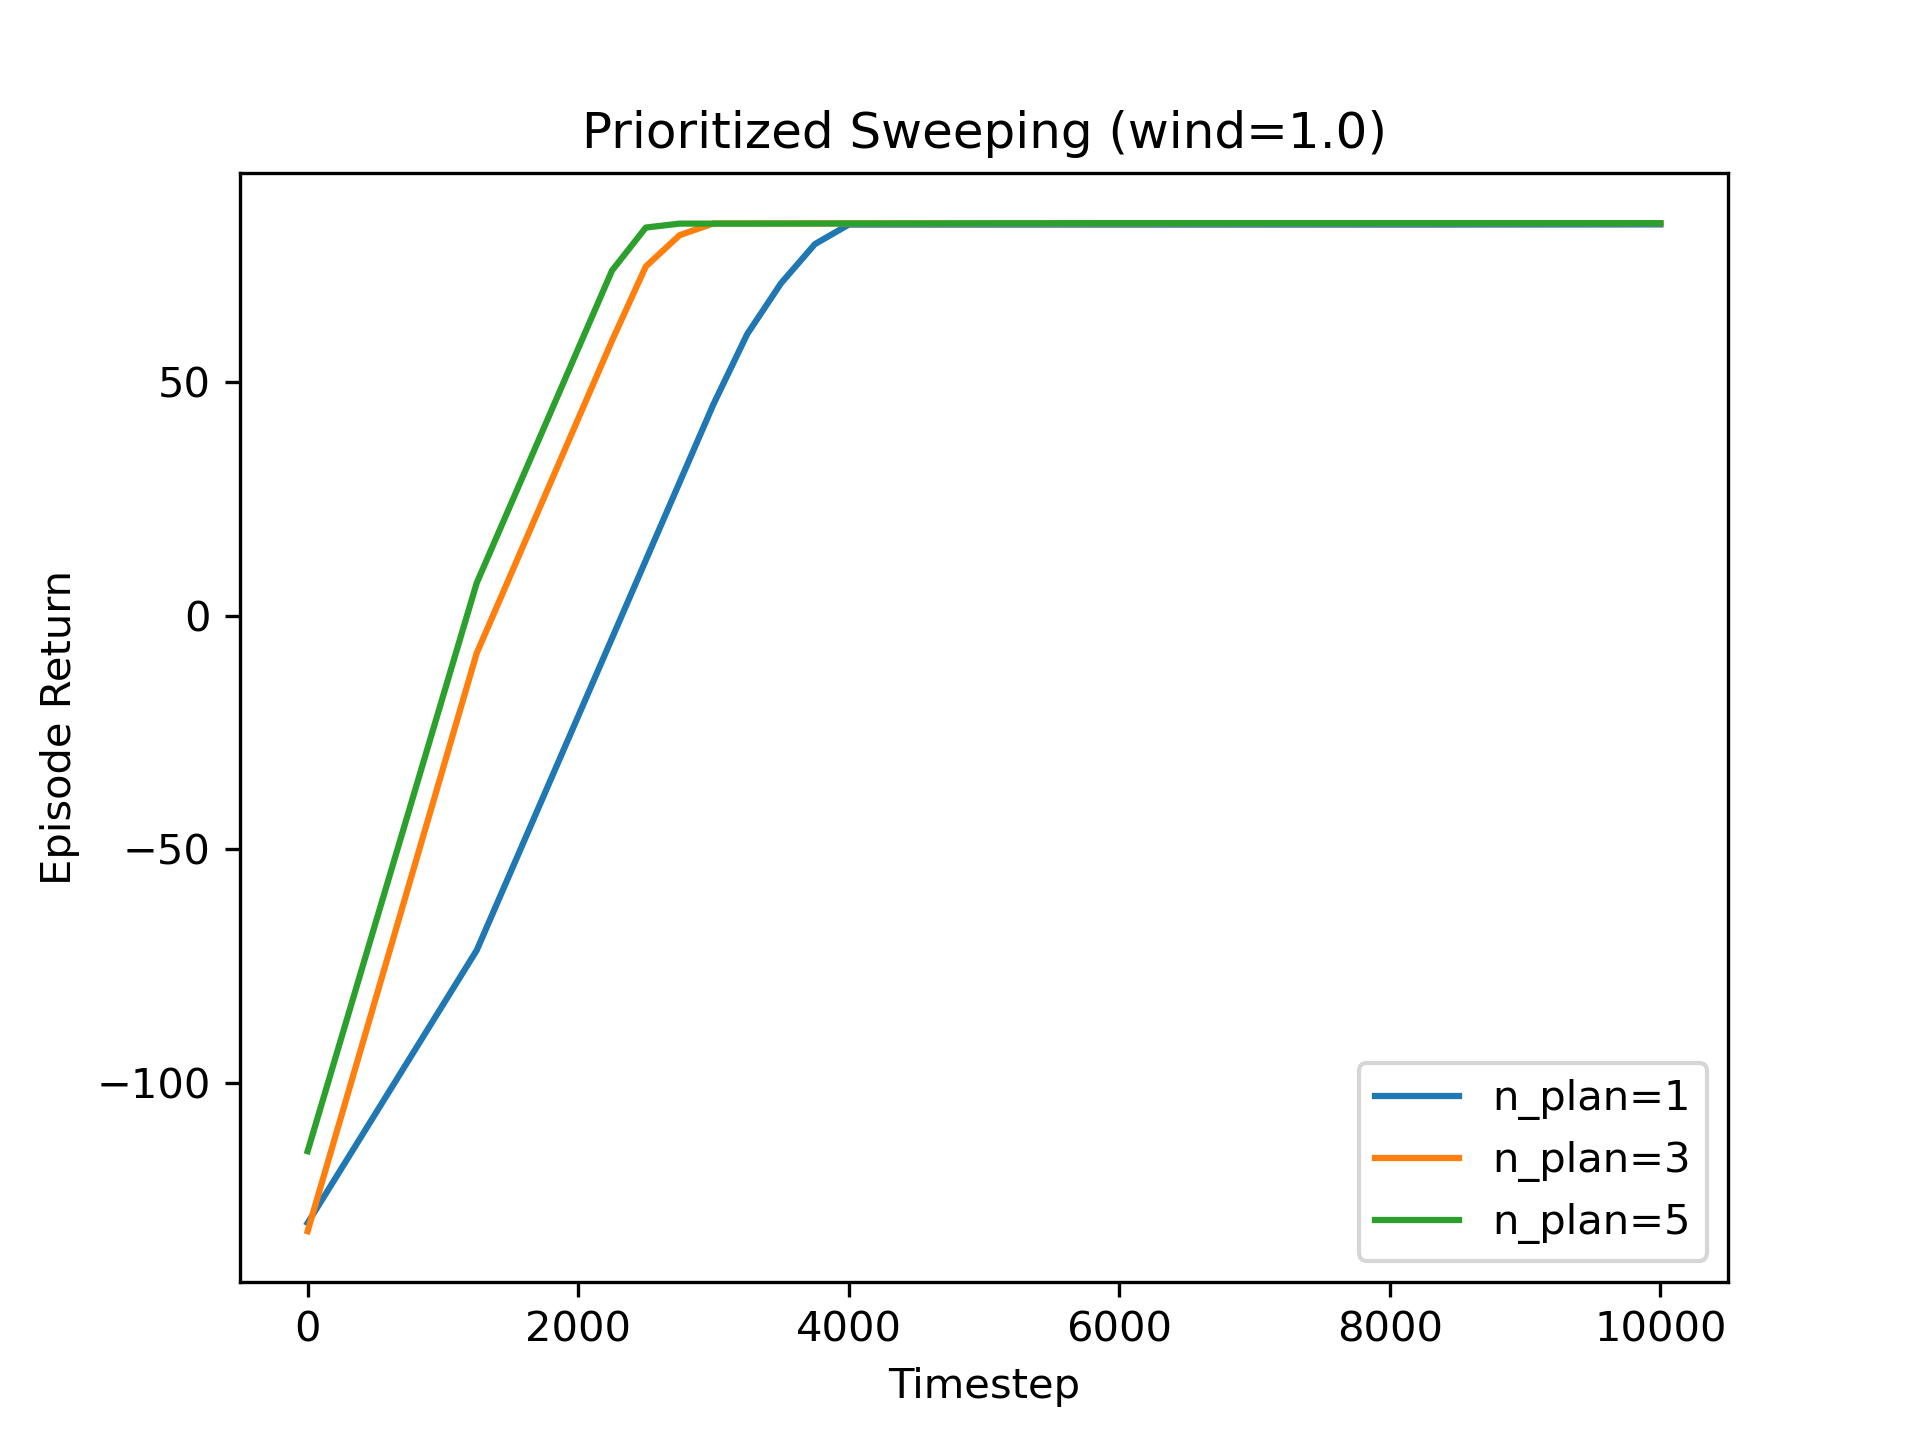
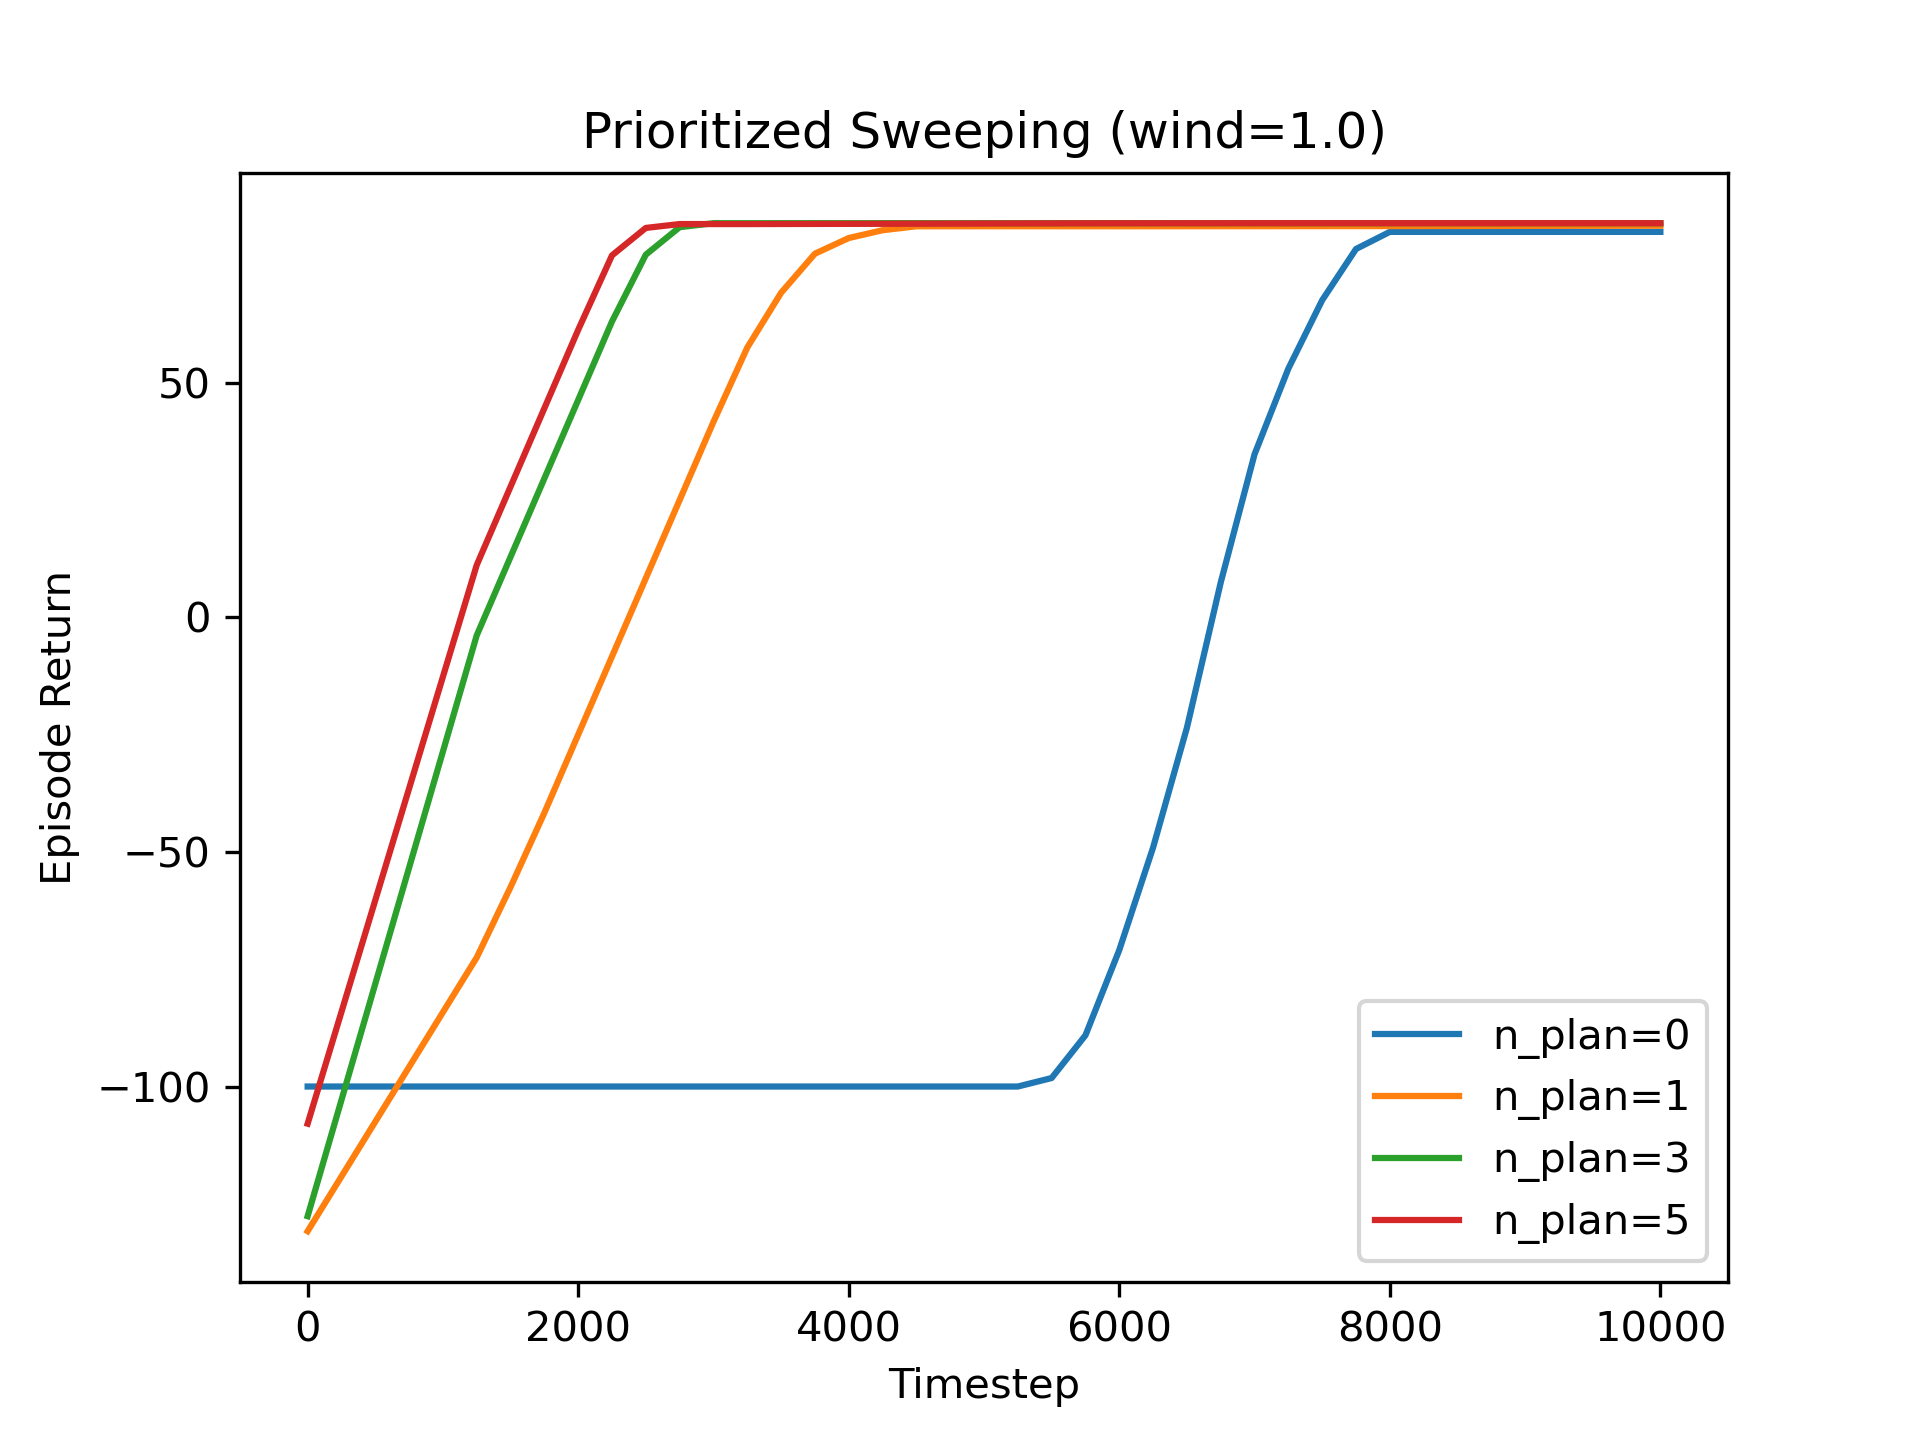
Added comments

diff --git a/IRL_A3/MBRLExperiment.py b/IRL_A3/MBRLExperiment.py
@@ -13,27 +13,30 @@ from MBRLAgents import DynaAgent, PrioritizedSweepingAgent
 from Helper import LearningCurvePlot, smooth
 
 def experiment():
-    n_timesteps = 10001
-    eval_interval = 250
-    n_repetitions = 20
-    gamma = 1.0
-    learning_rate = 0.2
-    epsilon=0.1
-    
-    wind_proportions=[0.9,1.0]
-    n_planning_updatess = [1,3,5] 
-    
-    # IMPLEMENT YOUR EXPERIMENT HERE
+    n_timesteps = 10001 #total number of environment steps to run the experiment for in each repetition
+    eval_interval = 250 # how often to evaluate the agent's performance (in environment steps)
+    n_repetitions = 20 #number of repetitions to average over
+    gamma = 1.0 #discount factor for future rewards
+    learning_rate = 0.2 #learning rate (alpha) for updates
+    epsilon=0.1 #exploration probability for e-greedy
+
+    wind_proportions=[0.9,1.0] #fraction of wind applied to gridworld transitions
+    n_planning_updatess = [1,3,5]  #number of planning updates
+
+    #Dictionary to store runtimes for each algorithm
     runtime_dict = {
         'Q-learning': [],
         'Dyna':[],
         'PS' : []
     }
 
+    #Loop over different wind strengths
     for wind_prop in wind_proportions:
         # Dyna curves (including Q-learning baseline at n_plan=0)
         lc_dyna = LearningCurvePlot(title=f"Dyna (wind={wind_prop})")
         x_axis = np.arange(0, n_timesteps, eval_interval)
+
+        #Included n_plan=0 baseline for comparison
         for n_plan in [0] + n_planning_updatess:
             avg_curve, runtimes = run_reps('dyna',
                                            wind_prop,
@@ -48,6 +51,7 @@ def experiment():
             sm = smooth(avg_curve, window=5)
             lc_dyna.add_curve(x_axis, sm, label=label)
 
+            #Runtime for summary table
             if n_plan == 0:
                 runtime_dict['Q-learning'].extend(runtimes)
             else:
@@ -56,6 +60,17 @@ def experiment():
 
         # Prioritized Sweeping curves
         lc_ps = LearningCurvePlot(title=f"Prioritized Sweeping (wind={wind_prop})")
+        q_curve, _ = run_reps('dyna',
+                              wind_prop,
+                              0,
+                              n_timesteps,
+                              eval_interval,
+                              n_repetitions,
+                              gamma,
+                              learning_rate,
+                              epsilon)
+        lc_ps.add_curve(x_axis, smooth(q_curve, window=5), label='n_plan=0')
+
         for n_plan in n_planning_updatess:
             avg_curve, runtimes = run_reps('ps',
                                            wind_prop,
@@ -79,7 +94,7 @@ def experiment():
         comp = LearningCurvePlot(title=f"Comparison (wind={wind_prop})")
         x_axis = np.arange(0, n_timesteps, eval_interval)
 
-        # Q-learning baseline
+        # 1) Q-learning baseline n_plan = 0
         q_curve, _ = run_reps('dyna',
                               wind_prop,
                               0,
@@ -91,7 +106,7 @@ def experiment():
                               epsilon)
         comp.add_curve(x_axis, smooth(q_curve, 5), label='Q-learning')
 
-        # best Dyna
+        # 2) best Dyna
         dyna_curve, _ = run_reps('dyna',
                                  wind_prop,
                                  best_n_plan,
@@ -103,7 +118,7 @@ def experiment():
                                  epsilon)
         comp.add_curve(x_axis, smooth(dyna_curve, 5), label=f'Dyna (n_plan={best_n_plan})')
 
-        # best PS
+        # 3) best PS
         ps_curve, _ = run_reps('ps',
                                wind_prop,
                                best_n_plan,
@@ -134,13 +149,16 @@ def run_reps(agent_type='dyna',
              learning_rate=0.2,
              epsilon=0.1):
 
+    # Number of evaluation points per repetition
     n_eval_points = int(np.floor((n_timesteps - 1) / eval_interval)) + 1
     avg_returns = np.zeros(n_eval_points)
     runtimes = []
 
+    #Loop over repetitions
     for repetition in range(n_repetitions):
         print(f"[{agent_type.upper()}] wind={wind_proportion:.1f}, n_plan={n_planning_updates} — Repetition {repetition + 1}/{n_repetitions}")
 
+        #Initialize environment and instantiate agent
         env = WindyGridworld(wind_proportion=wind_proportion)
         if agent_type == 'dyna':
             agent = DynaAgent(env.n_states, env.n_actions, learning_rate, gamma)
@@ -149,6 +167,7 @@ def run_reps(agent_type='dyna',
         else:
             raise KeyError("Unknown agent type")
 
+        #start timing
         t0 = time.time()
 
         # initial evaluation
@@ -156,20 +175,26 @@ def run_reps(agent_type='dyna',
         avg_returns[idx] += agent.evaluate(env)
         idx += 1
 
+        #Main RL Loop
         s = env.reset()
         for t in range(1, n_timesteps):
+            #select action with epsilon-greedy policy and take step in environment
             a = agent.select_action(s, epsilon)
             s_next, r, done = env.step(a)
+            #update agent
             agent.update(s, a, r, done, s_next, n_planning_updates)
+            #reset if the terminal state is reached
             s = env.reset() if done else s_next
 
+            #evaluate performance at set intervals
             if t % eval_interval == 0:
                 test_env = WindyGridworld(wind_proportion)
                 avg_returns[idx] += agent.evaluate(test_env)
                 idx += 1
-
+        #record runtime for this repetition
         runtimes.append(__import__('time').time() - t0)
 
+    #average over all repetitions
     avg_returns /= n_repetitions
     return avg_returns, runtimes
 

diff --git a/IRL_A3/MBRLAgents.py b/IRL_A3/MBRLAgents.py
@@ -13,16 +13,16 @@ from MBRLEnvironment import WindyGridworld
 class DynaAgent:
 
     def __init__(self, n_states, n_actions, learning_rate, gamma):
-        self.n_states = n_states
-        self.n_actions = n_actions
-        self.learning_rate = learning_rate
-        self.gamma = gamma
-        # TO DO: Initialize relevant elements
+        self.n_states = n_states #number of states
+        self.n_actions = n_actions #number of actions
+        self.learning_rate = learning_rate #alpha step-size for updates
+        self.gamma = gamma #discount factor for future rewards
 
-        # Value table
+        # Q-table: estimated action-values for each state-action pair
         self.Q_sa = np.zeros((n_states, n_actions))
 
-        # Tab model
+        # Tab model of transitions
+        # counts of observed next states for each (s,a) pair, and rewards for each (s,a,s')
         self.n_sas = np.zeros((n_states, n_actions, n_states), dtype=int) #counting transitions
         self.R_sum_sas = np.zeros((n_states, n_actions, n_states), dtype=float) #sums of rewards
 
@@ -33,17 +33,16 @@ class DynaAgent:
 
 
     def select_action(self, s, epsilon):
-        # TO DO: Change this to e-greedy action selection
         if np.random.random() < epsilon:
+            # explore: choose random action
             return np.random.randint(self.n_actions)
+        #exploit: choose one of greedy actions
         q = self.Q_sa[s]
         max_q = np.max(q)
         greedy = np.flatnonzero(q == max_q)
         return int(np.random.choice(greedy))
         
     def update(self,s,a,r,done,s_next,n_planning_updates):
-        # TO DO: Add Dyna update
-
         # 1) Real Q-learning update
         target = r + self.gamma * (0.0 if done else np.max(self.Q_sa[s_next]))
         self.Q_sa[s, a] += self.learning_rate * (target - self.Q_sa[s, a])
@@ -61,6 +60,7 @@ class DynaAgent:
         for _ in range(n_planning_updates):
             if not self.visited_sa:
                 break
+            #Randomly pick a previously seen (s,a)
             s_sim, a_sim = self.visited_sa[np.random.randint(len(self.visited_sa))]
             counts = self.n_sas[s_sim, a_sim]
             total = counts.sum()
@@ -68,7 +68,9 @@ class DynaAgent:
                 continue
             probs = counts / total
             s_sim_next = int(np.random.choice(self.n_states, p=probs))
+            #estimate reward from average observed reward
             r_sim = self.R_sum_sas[s_sim, a_sim, s_sim_next] / counts[s_sim_next]
+            #simulated Q-update
             tgt = r_sim + self.gamma * np.max(self.Q_sa[s_sim_next])
             self.Q_sa[s_sim, a_sim] += self.learning_rate * (tgt - self.Q_sa[s_sim, a_sim])
 
@@ -96,18 +98,19 @@ class PrioritizedSweepingAgent:
         self.n_actions = n_actions
         self.learning_rate = learning_rate
         self.gamma = gamma
+        #Minimum TD error threshold
         self.priority_cutoff = priority_cutoff
+        #Priority queue storing
         self.queue = PriorityQueue()
-        # TO DO: Initialize relevant elements
-
+        #Q-table for action-values
         self.Q_sa = np.zeros((n_states, n_actions))
-
+        #Transition counts and rewards
         self.n_sas = np.zeros((n_states, n_actions, n_states), dtype=int)
         self.R_sum_sas = np.zeros((n_states, n_actions, n_states), dtype=float)
+        #Predecessor states for each state
         self.predecessors = [set() for _ in range(n_states)]
         
     def select_action(self, s, epsilon):
-        # TO DO: Change this to e-greedy action selection
         if np.random.rand() < epsilon:
             return np.random.randint(self.n_actions)
         q = self.Q_sa[s]
@@ -116,16 +119,7 @@ class PrioritizedSweepingAgent:
         return int(np.random.choice(greedy_actions))
 
     def update(self,s,a,r,done,s_next,n_planning_updates):
-        
-        # TO DO: Add Prioritized Sweeping code
-        
-        # Helper code to work with the queue
-        # Put (s,a) on the queue with priority p (needs a minus since the queue pops the smallest priority first)
-        # self.queue.put((-p,(s,a))) 
-        # Retrieve the top (s,a) from the queue
-        # _,(s,a) = self.queue.get() # get the top (s,a) for the queue
-
-        # 1) Standard Q-learning upd.
+        # 1) Standard Q-learning update
         old_q = self.Q_sa[s, a]
         target = r + self.gamma * (0.0 if done else np.max(self.Q_sa[s_next]))
         td_err = target - old_q
@@ -146,6 +140,7 @@ class PrioritizedSweepingAgent:
                 break
             _, (s_p, a_p) = self.queue.get()
 
+            #sample next-state and reward from model
             counts = self.n_sas[s_p, a_p]
             total = counts.sum()
             if total == 0:
@@ -156,6 +151,7 @@ class PrioritizedSweepingAgent:
             s_p_next = int(np.random.choice(self.n_states, p=probs))
             r_p = self.R_sum_sas[s_p, a_p, s_p_next] / counts[s_p_next]
 
+            #perform Q-update for planned step
             old_q_p = self.Q_sa[s_p, a_p]
             tgt_p = r_p + self.gamma * np.max(self.Q_sa[s_p_next])
             td_err_p = tgt_p - old_q_p
